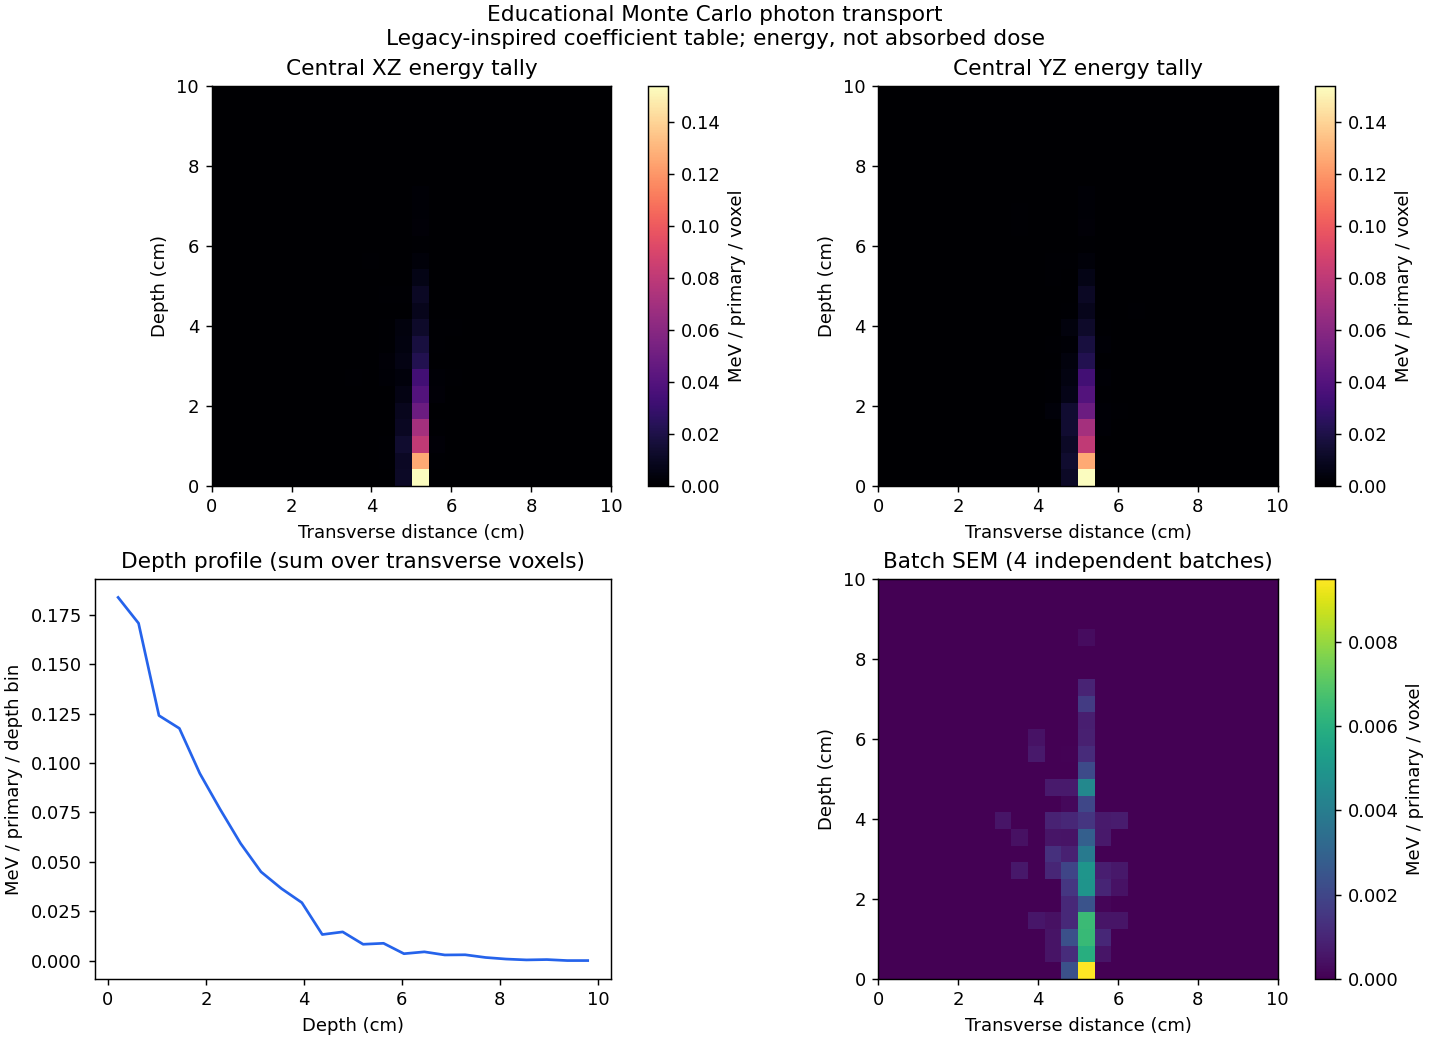
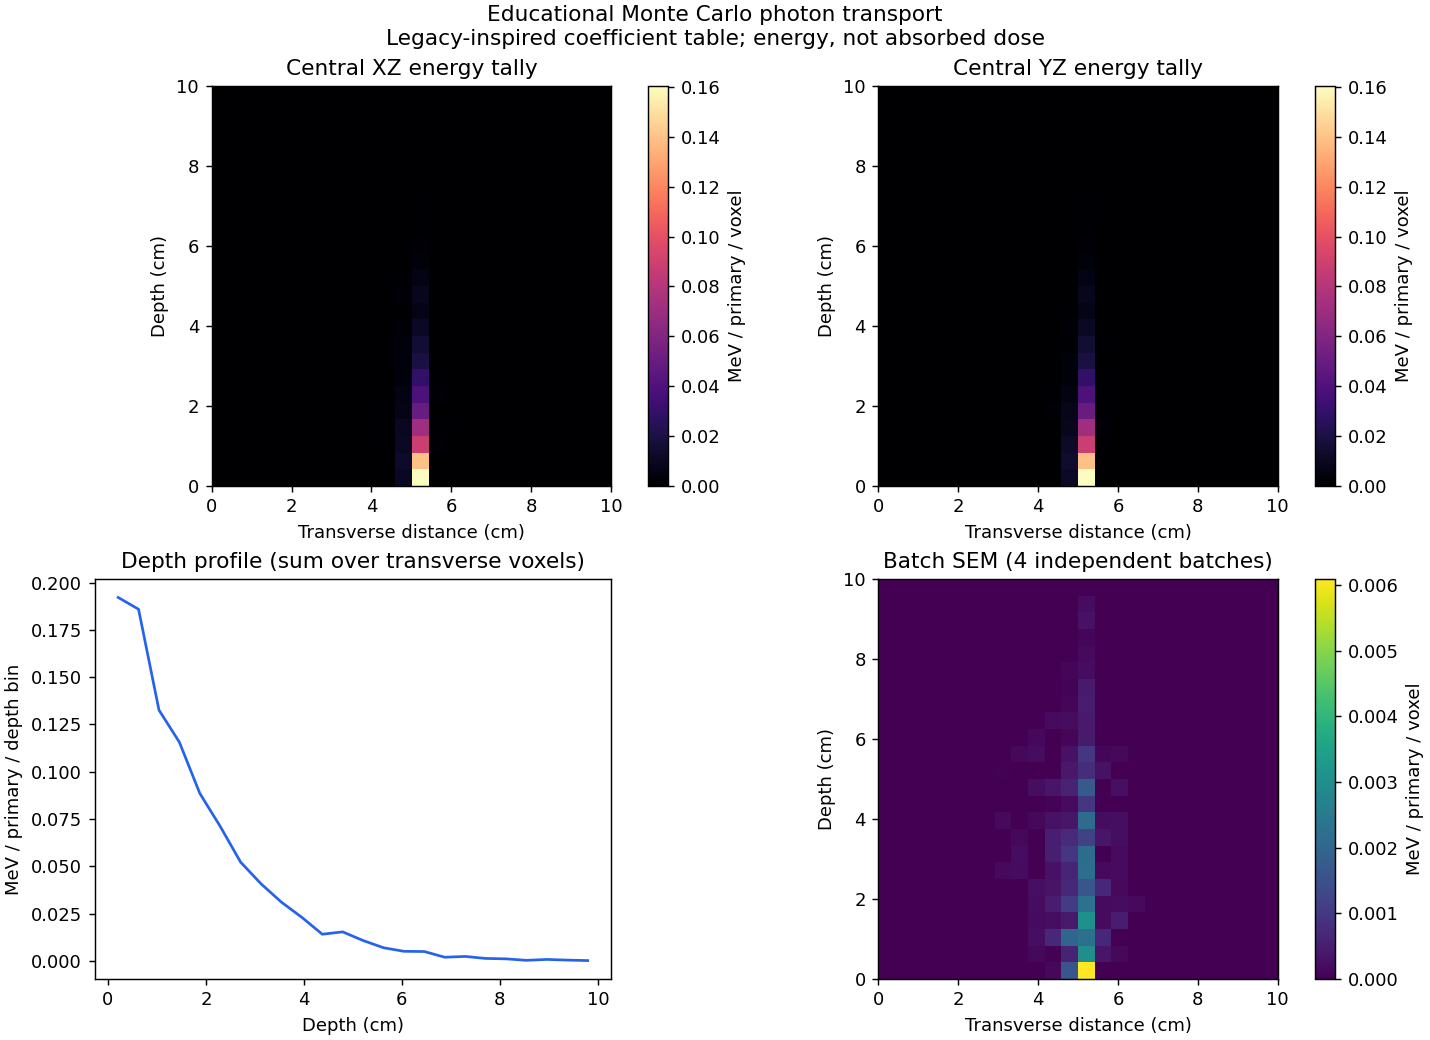
Increase photon simulations to 1000 primaries per batch

diff --git a/src/stochastic_photons/transport.py b/src/stochastic_photons/transport.py
@@ -95,7 +95,7 @@ def voxel_index(position, length, shape):
     return tuple(np.floor(position/length*np.asarray(shape)).astype(int))
 
 
-def simulate_batch(photons=300, grid_size=24, length=10.0, material='legacy-lead',
+def simulate_batch(photons=1000, grid_size=24, length=10.0, material='legacy-lead',
                    energy=1.0, cutoff=0.05, seed=42, max_interactions=200):
     positive_integer(photons, 'photons')
     positive_integer(grid_size, 'grid_size', 2)
@@ -144,7 +144,7 @@ def simulate_batch(photons=300, grid_size=24, length=10.0, material='legacy-lead
             'cutoff_deposited_mev': cutoff_deposited}
 
 
-def simulate_ensemble(histories=4, photons=300, seed=42, **kwargs):
+def simulate_ensemble(histories=4, photons=1000, seed=42, **kwargs):
     """Streaming batch means and SEM; memory does not grow with history count."""
     positive_integer(histories, 'histories', 2)
     positive_integer(photons, 'photons')

diff --git a/src/stochastic_photons/cli.py b/src/stochastic_photons/cli.py
@@ -9,7 +9,7 @@ from .transport import MATERIALS, simulate_ensemble
 def main():
     parser = argparse.ArgumentParser(description=__doc__)
     parser.add_argument('--histories', type=int, default=4)
-    parser.add_argument('--photons', type=int, default=300)
+    parser.add_argument('--photons', type=int, default=1000)
     parser.add_argument('--grid-size', type=int, default=24)
     parser.add_argument('--length', type=float, default=10)
     parser.add_argument('--material', choices=MATERIALS, default='legacy-lead')

diff --git a/docs/VALIDATION.md b/docs/VALIDATION.md
@@ -22,8 +22,14 @@ The maintained implementation is checked separately from the historical sources.
 
 R was not installed in the local Windows environment; its verification was performed by the real R interpreter in CI. The local Python CLI run used four batches of 300 primaries, seed 42 and a 24-cubed grid. Mean deposited energy was approximately **0.998743 MeV per primary**, with zero unresolved energy in those batches. These numbers describe that seeded educational example only.
 
-`assets/transport.png` comes from that local Python run. `assets/attenuation.png` is the actual R-generated figure retrieved from the successful CI run. Both images were visually inspected. The original 75,304,287-byte notebook becomes a 41,130-byte source-only notebook, retaining all 19 code-cell source hashes.
+`assets/attenuation.png` is the actual R-generated figure retrieved from the successful CI run. The original 75,304,287-byte notebook becomes a 41,130-byte source-only notebook, retaining all 19 code-cell source hashes.
 
-Reproduction commands are in the README. The final preview and validation update changes documentation and assets only.
+## Increased photon count: 18 October 2026
+
+The maintained Python API, CLI and CI demo now default to **1,000 primaries per batch**. Four default batches simulate **4,000 photons total**. The walkthrough notebook also uses 1,000 photons per batch, with its existing three batches. Historical sources and the R demonstration's existing 1,000 photons are unchanged.
+
+On Windows with Python 3.12.14, all nine tests, the maintained notebook and the historical integrity audit passed. The regenerated default demo (seed 42, 24-cubed grid) yielded **0.998699 MeV deposited per primary**, with zero unresolved energy and a conserved energy ledger in every batch. `assets/transport.png` is generated from this 4,000-photon run and was visually inspected. Increasing the sample size reduces Monte Carlo sampling noise in expectation; the four-batch SEM remains an estimate rather than proof of convergence.
+
+Reproduction commands are in the README.
 
 These checks establish implementation behavior and bookkeeping. They do not validate material data, prove distributional coverage of bootstrap intervals or establish transport accuracy against a benchmark.

diff --git a/README.md b/README.md
@@ -22,12 +22,12 @@ python -m venv .venv
 # Linux/macOS: source .venv/bin/activate
 # Windows PowerShell: .venv\Scripts\Activate.ps1
 python -m pip install -e .
-python -m stochastic_photons --histories 4 --photons 300 --grid-size 24
+python -m stochastic_photons --histories 4 --photons 1000 --grid-size 24
 python -m unittest discover -s tests -v
 python tools/audit_repository.py
 ```
 
-The command writes a PNG, a compressed NumPy archive and a JSON energy ledger to `output/python/`. Seeds reproduce runs within the same numerical environment; exact cross-version random streams are not promised. For a water-like legacy table, add `--material legacy-water`. Run `python -m stochastic_photons --help` for options.
+The default is **1,000 photons per batch** and four independent batches: **4,000 photons total**. The command writes a PNG, a compressed NumPy archive and a JSON energy ledger to `output/python/`. Seeds reproduce runs within the same numerical environment; exact cross-version random streams are not promised. For a water-like legacy table, add `--material legacy-water`. Run `python -m stochastic_photons --help` for options.
 
 ![Python transport example](assets/transport.png)
 
